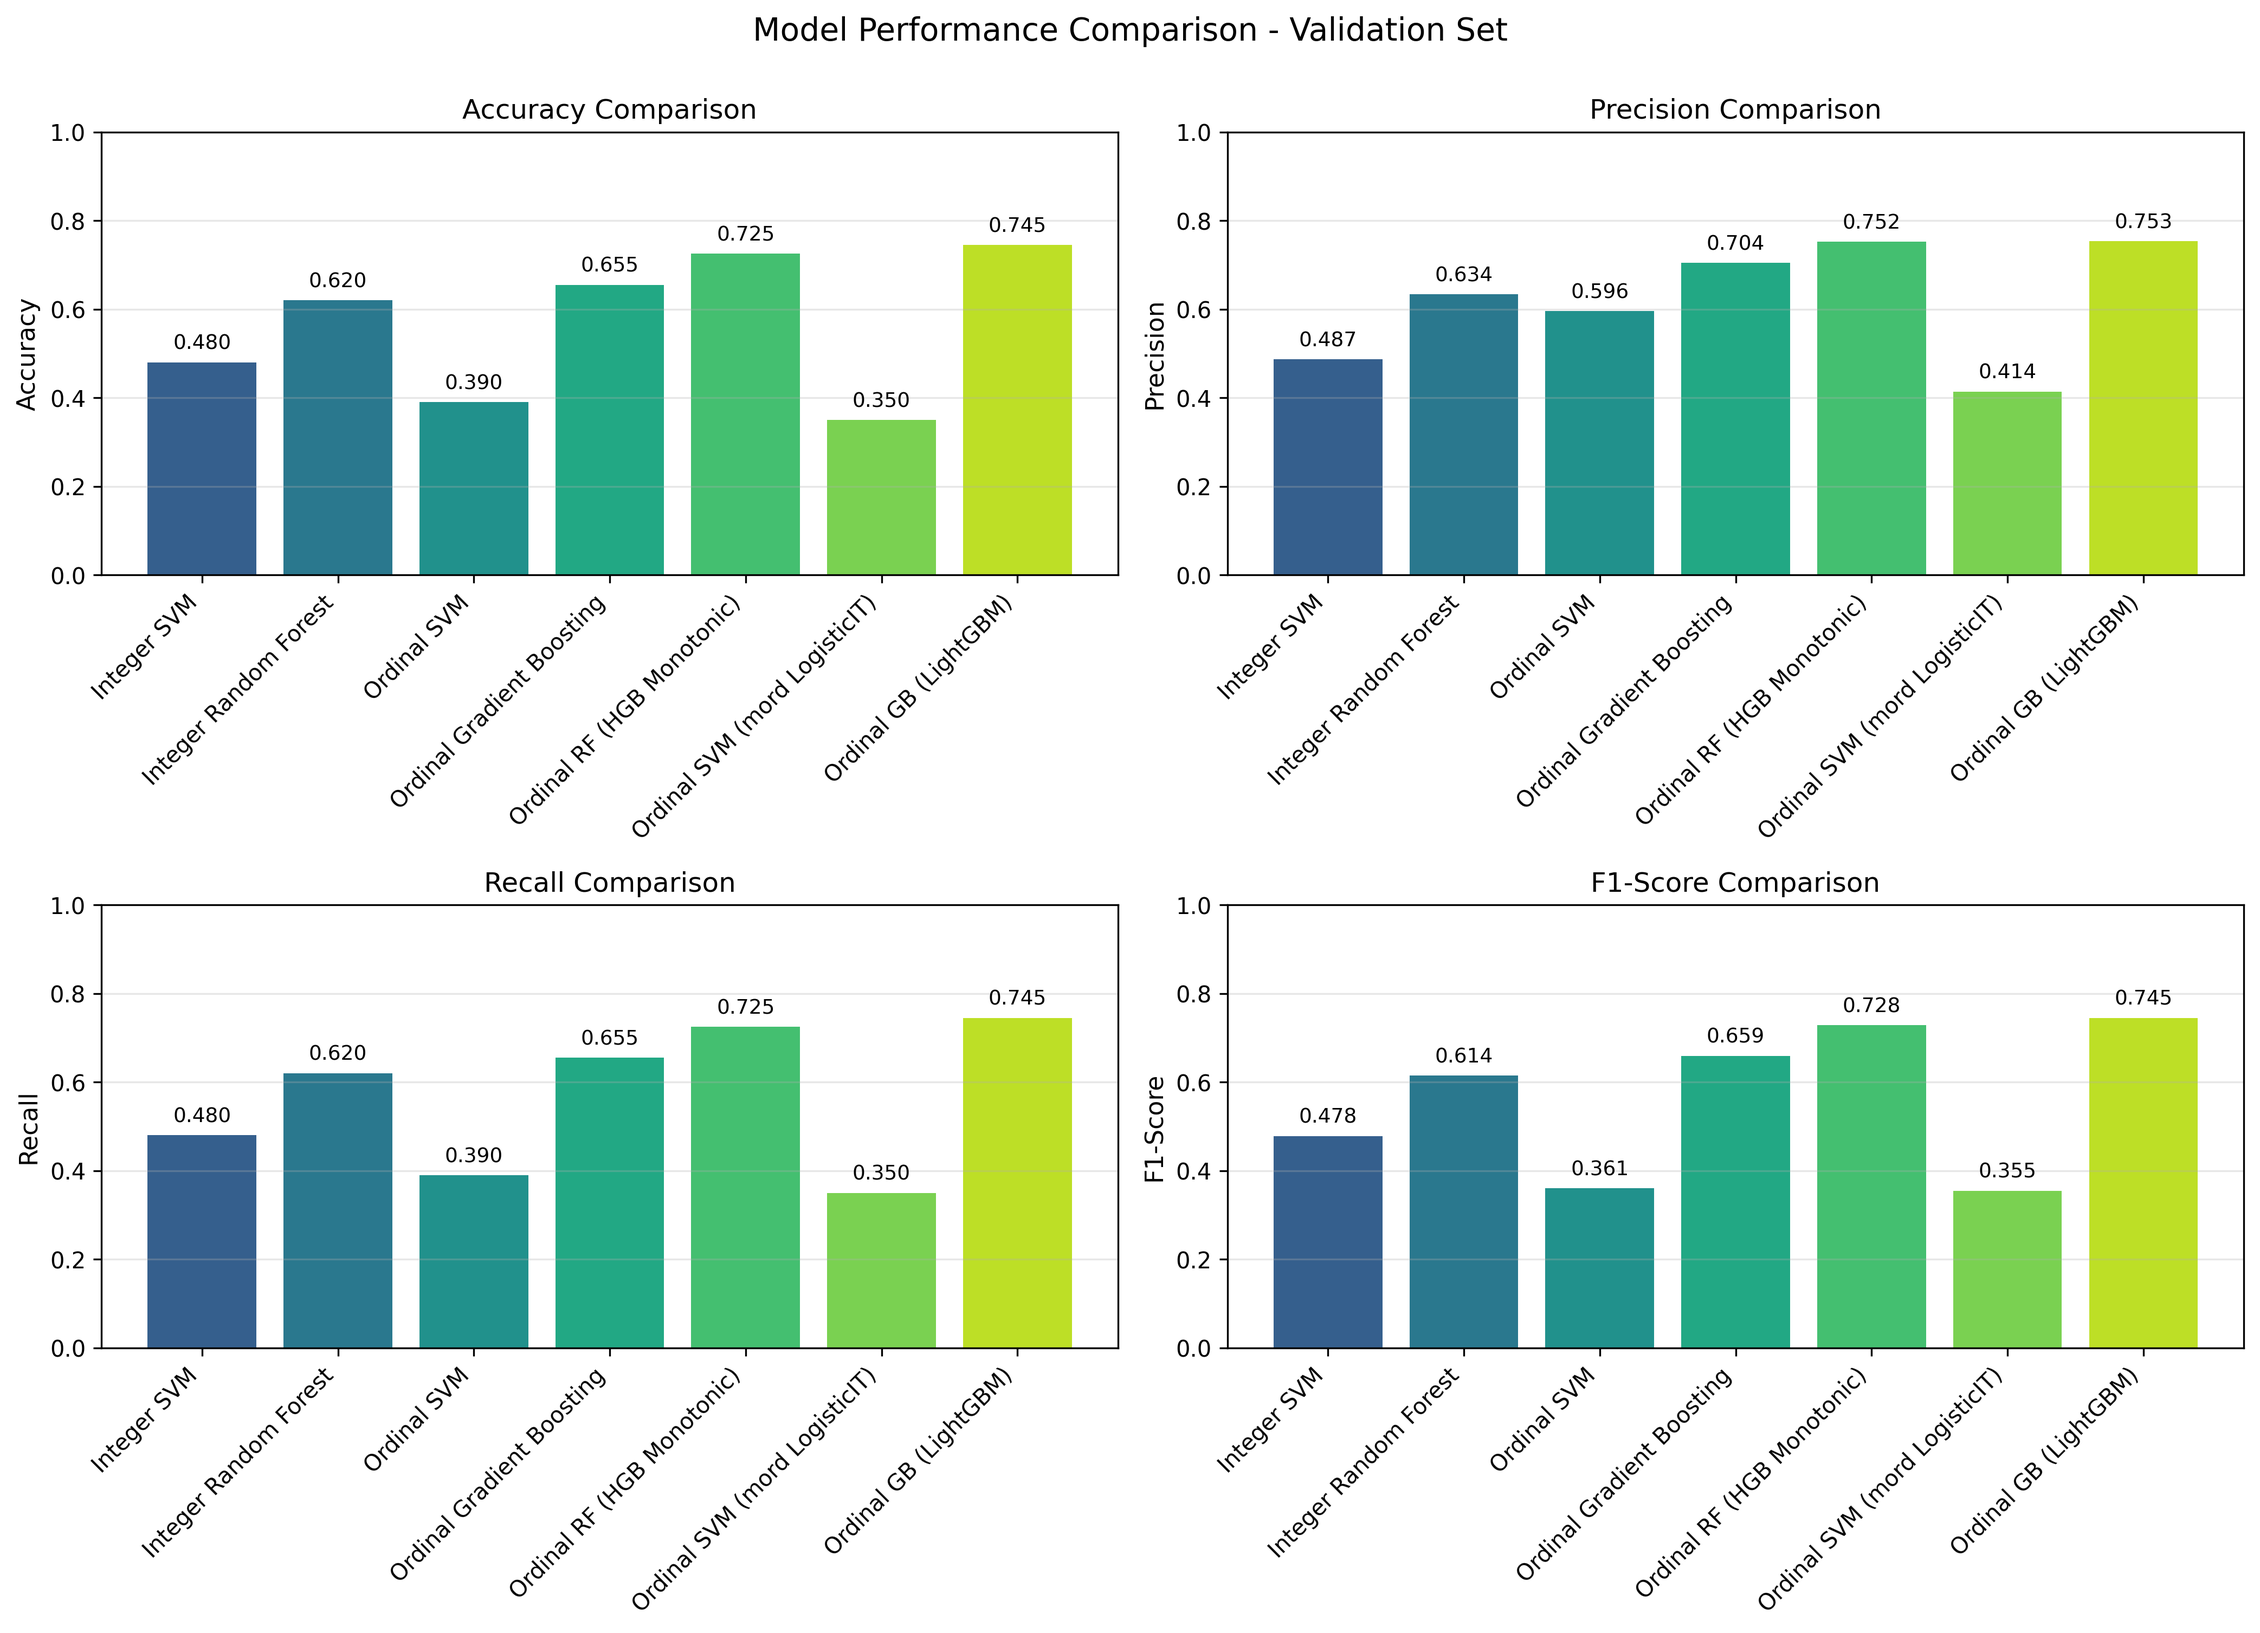
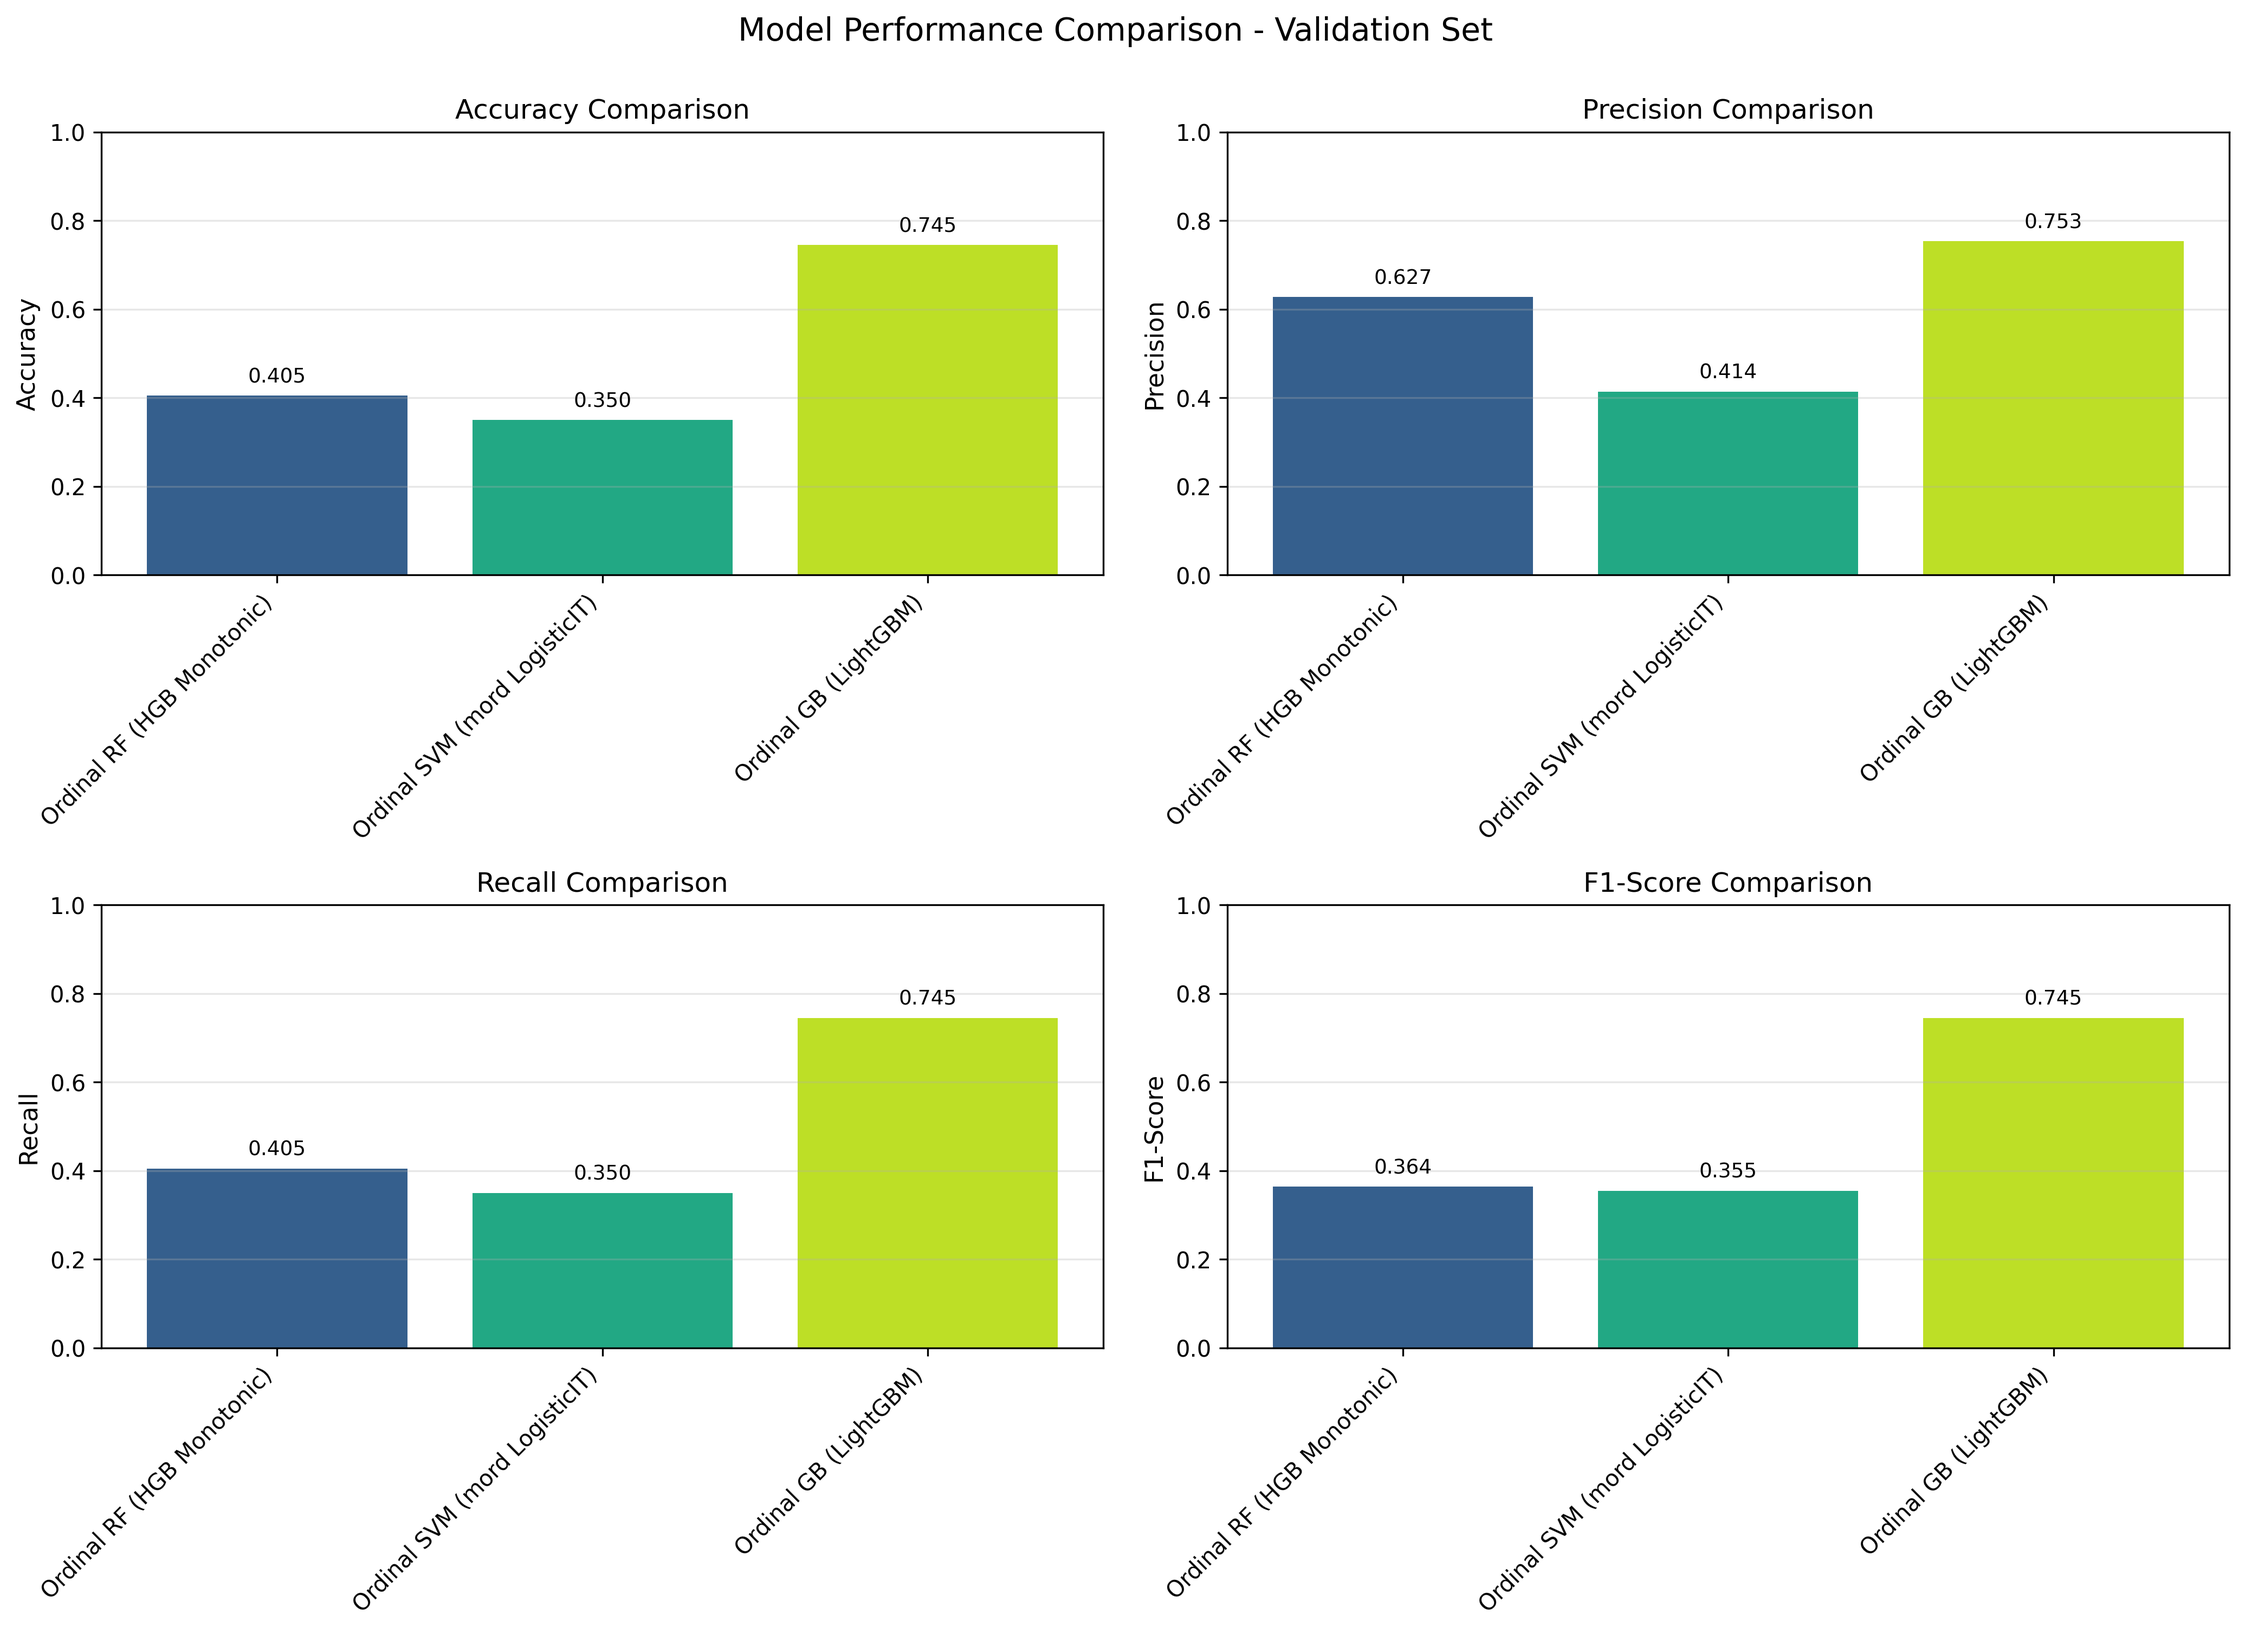
changed rf mord

diff --git a/code/model_training/ordinal_rf_mord.py b/code/model_training/ordinal_rf_mord.py
@@ -57,7 +57,8 @@ def train_with_mord_wrapper(X: np.ndarray, y: np.ndarray, n_estimators: int = 50
     return pipeline
 
 
-def train_with_multioutput_rf(X: np.ndarray, y: np.ndarray, n_estimators: int = 50, random_state: int = 42):
+def train_with_multioutput_rf(X: np.ndarray, y: np.ndarray, n_estimators: int = 50, 
+                              max_depth: int = 50, min_samples_leaf: int = 2, random_state: int = 42):
     """
     Train using MultiOutputClassifier with RandomForest.
     One binary RF per ordinal threshold.
@@ -66,6 +67,8 @@ def train_with_multioutput_rf(X: np.ndarray, y: np.ndarray, n_estimators: int = 
     
     base_rf = RandomForestClassifier(
         n_estimators=n_estimators,
+        max_depth=max_depth,  # Limit tree depth
+        min_samples_leaf=min_samples_leaf,  # Min samples per leaf
         random_state=random_state,
         n_jobs=1,
         verbose=1  # Show progress during training
@@ -83,7 +86,8 @@ def train_with_multioutput_rf(X: np.ndarray, y: np.ndarray, n_estimators: int = 
     return pipeline
 
 
-def train_with_monotonic_hgb(X: np.ndarray, y: np.ndarray, max_iter: int = 100, random_state: int = 42):
+def train_with_monotonic_hgb(X: np.ndarray, y: np.ndarray, max_iter: int = 100, 
+                             max_depth: int = 5, learning_rate: float = 0.1, random_state: int = 42):
     """
     Train using HistGradientBoosting with monotonic constraints.
     Note: This uses HGB not RF, but supports monotonic constraints natively.
@@ -92,6 +96,8 @@ def train_with_monotonic_hgb(X: np.ndarray, y: np.ndarray, max_iter: int = 100, 
     
     base_hgb = HistGradientBoostingClassifier(
         max_iter=max_iter,
+        max_depth=max_depth,  # Limit tree depth
+        learning_rate=learning_rate,  # Control step size
         random_state=random_state,
         verbose=1  # Show progress during training
     )

diff --git a/code/04_train_rf_mord.py b/code/04_train_rf_mord.py
@@ -64,7 +64,7 @@ if __name__ == '__main__':
     p.add_argument('--out', default='features/model_rf_mord.joblib', help='Output model path')
     p.add_argument('--method', choices=['mord', 'multi_rf', 'monotonic_hgb'], default='monotonic_hgb',
                    help='Training method: mord (LogisticAT), multi_rf (MultiOutput RF), monotonic_hgb (HGB with constraints)')
-    p.add_argument('--n_estimators', type=int, default=100, help='Number of trees/iterations')
+    p.add_argument('--n_estimators', type=int, default=500, help='Number of trees/iterations')
     p.add_argument('--random_state', type=int, default=42)
     args = p.parse_args()
     main(args)
